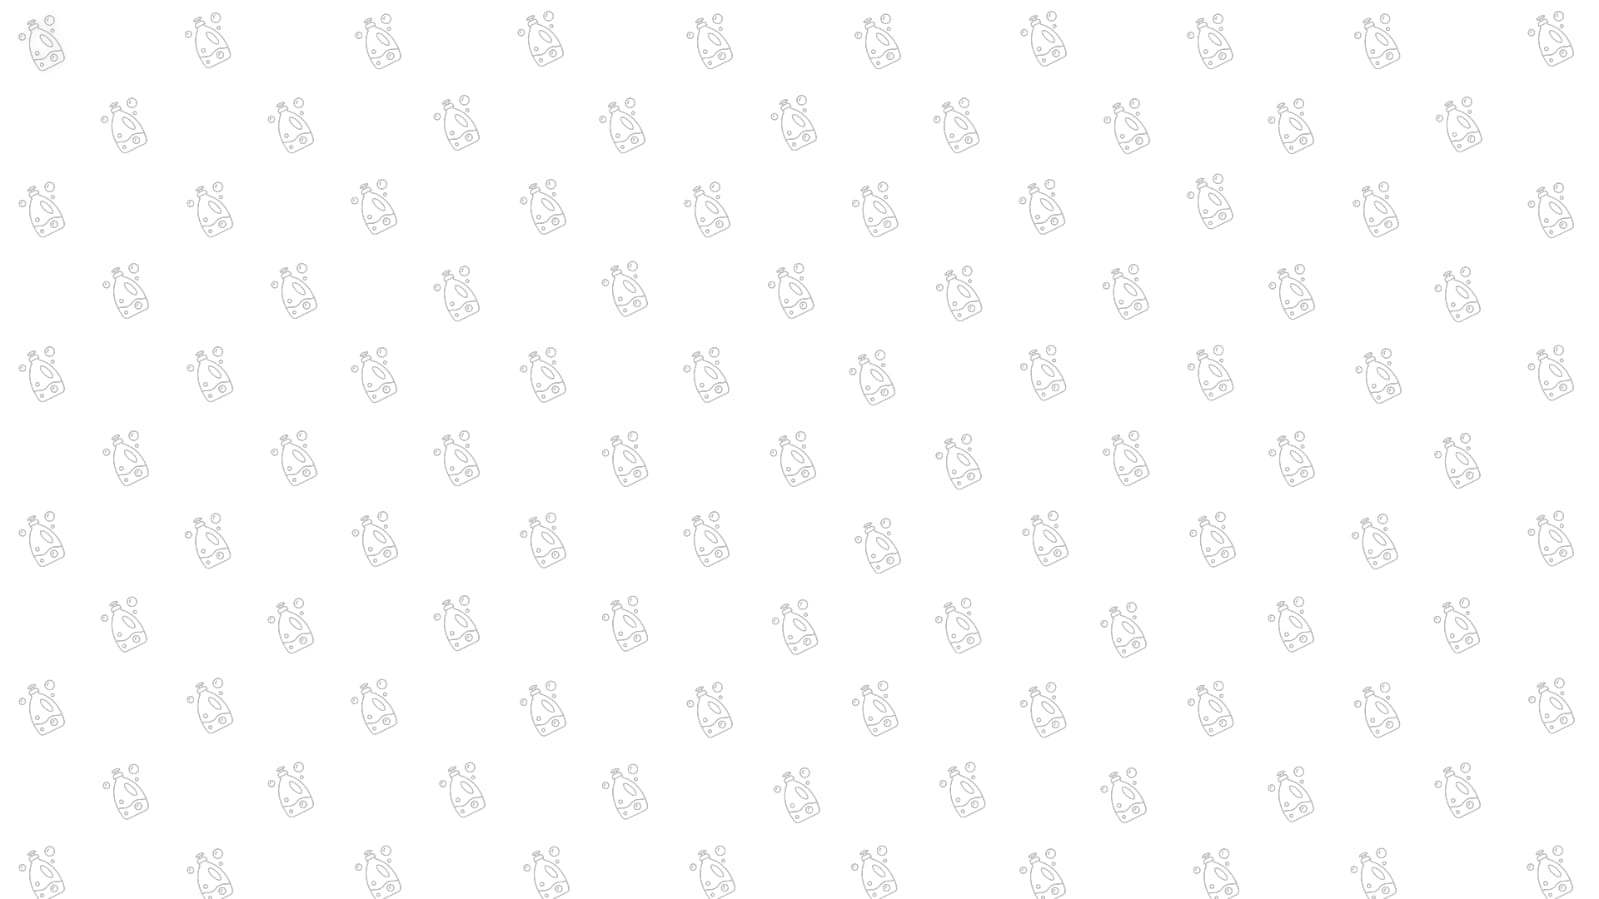
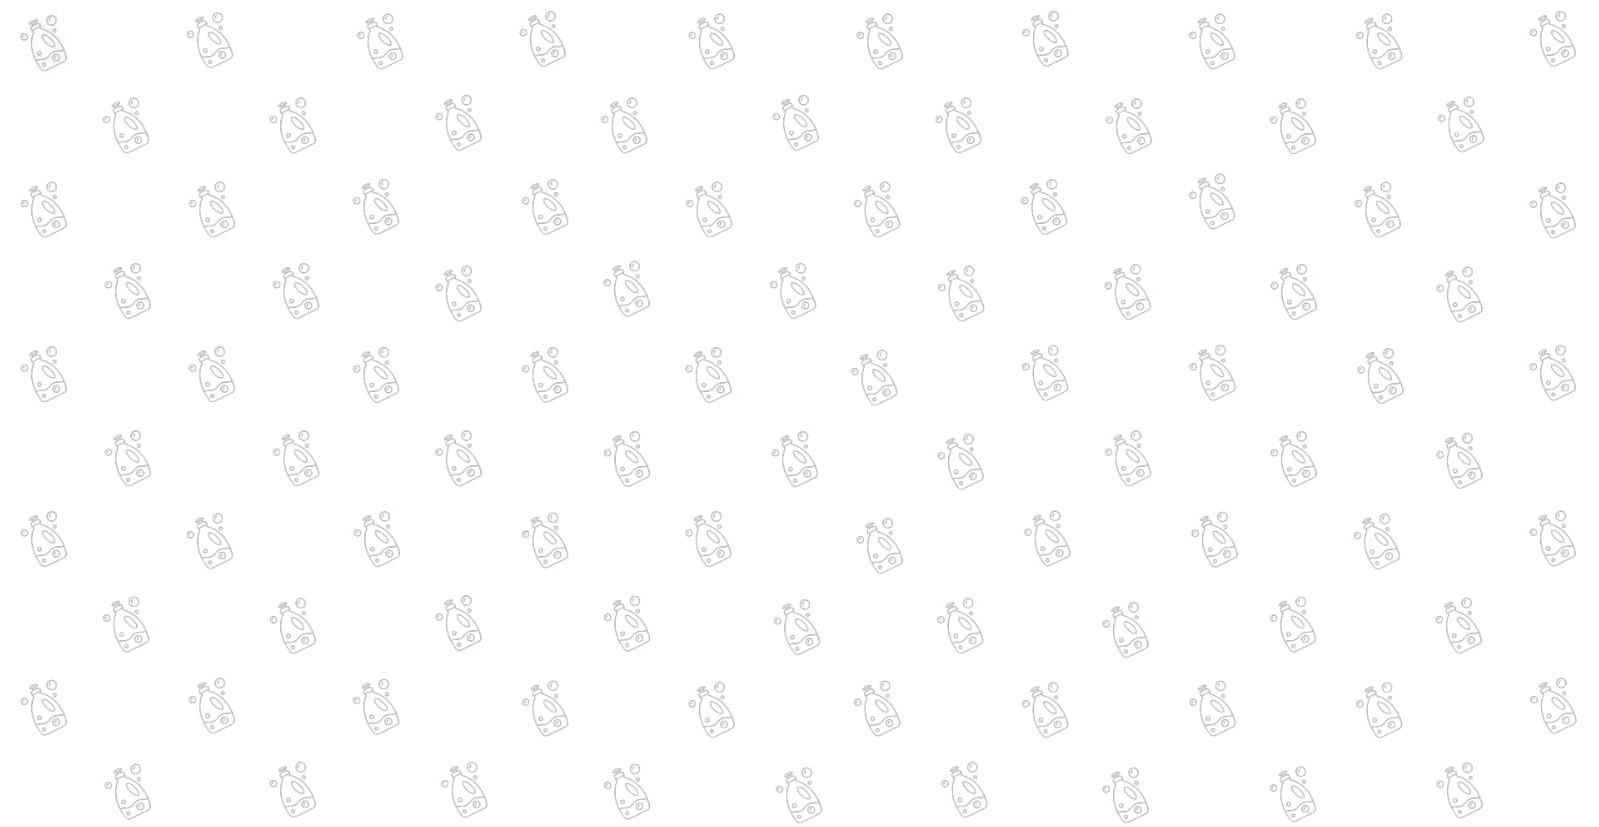
Fix: background img

diff --git a/resources/js/Pages/Home/Index.vue b/resources/js/Pages/Home/Index.vue
@@ -37,6 +37,27 @@ const serviceList = [
     price: 9000,
     icon: 'ion:home'
   },
+  {
+    id: 4,
+    name: 'Reguler 2 Hari',
+    time: 48,
+    price: 5000,
+    icon: 'ion:home'
+  },
+  {
+    id: 5,
+    name: 'Setrika 24 jam',
+    time: 24,
+    price: 5000,
+    icon: 'ion:home'
+  },
+  {
+    id: 6,
+    name: 'Bedcover 7 hari',
+    time: 168,
+    price: 20000,
+    icon: 'ion:home'
+  },
 ]
 
 function hi() {
@@ -147,8 +168,8 @@ function changeQty(id, isIncrement) {
 .wrapper {
   display: flex;
   min-height: 100vh;
-  background-repeat: no-repeat;
-  background-size: cover;
+  // background-repeat: no-repeat;
+  // background-size: cover;
 }
 
 .main {
@@ -204,6 +225,7 @@ function changeQty(id, isIncrement) {
     display: flex;
     flex-direction: column;
     gap: 2rem 0;
+    padding-bottom: 2rem;
   }
 
   &__total-wrapper {
